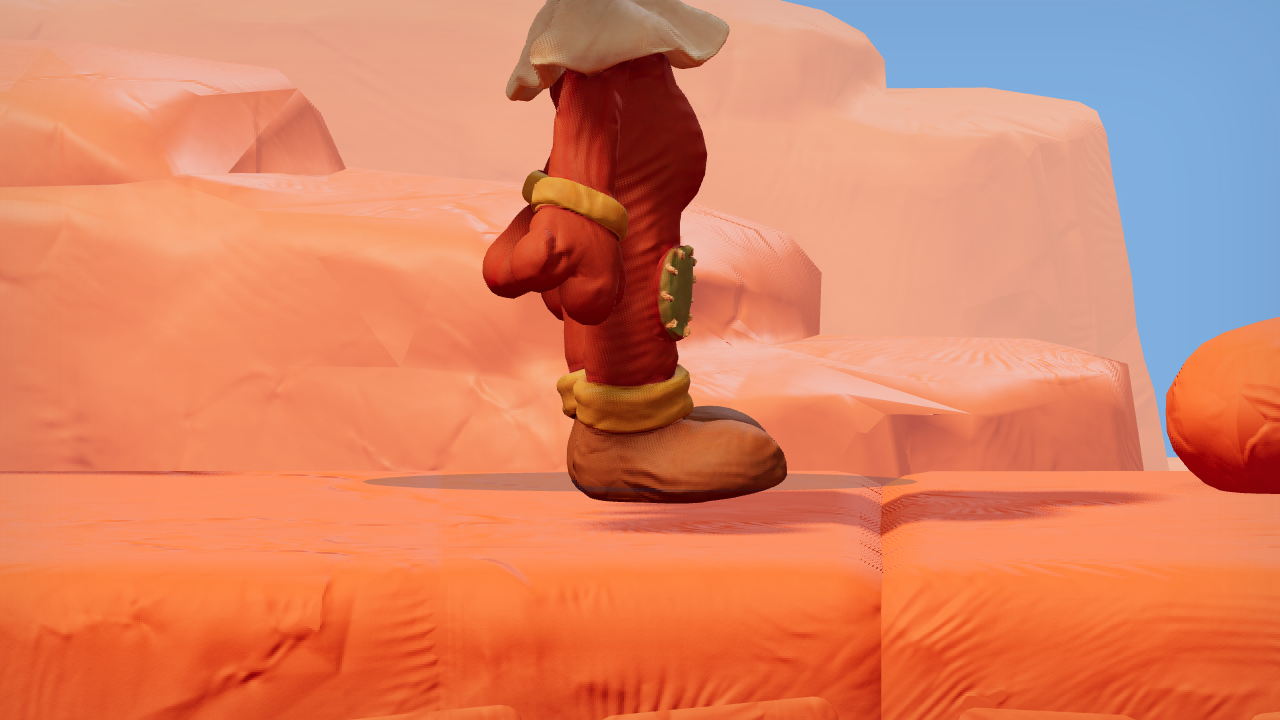
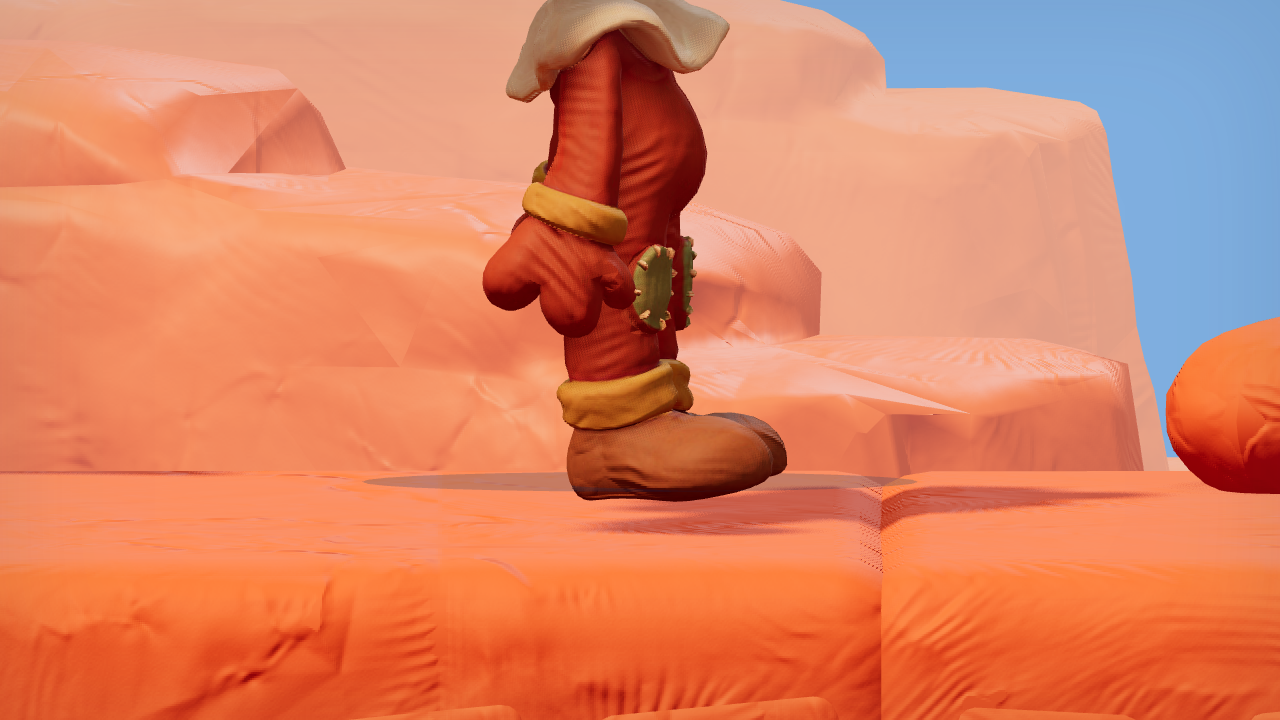
Mirror the apprentice so its face shows facing right
The game is played facing right, and the apprentice's hair is swept to the
side that then faces the camera — the profile players see most was a curtain
of hair with the nose poking out. A character may now declare `mirror`, a
reflection of the normalized group across its own sagittal plane: the rig,
clips and reached-for joints come along and the renderer turns the winding
with the determinant. The flower celebration's arm solver went through the
parent's quaternion, which cannot carry a reflection; it now takes both
directions into the parent frame through its full inverse matrix, and the
character test asks each hand to land on the stem rather than only on the
other hand.

Changed region(s): [[0.375, 0.0, 0.9062, 0.7333]]

diff --git a/dist/flower-celebration.js b/dist/flower-celebration.js
@@ -49,11 +49,14 @@ export function createFlowerCelebration(c,w){
 // bone lengths. Both actual hands converge on the same short flower stem.
 function reach(chain,target,weight){
   const joints=chain.slice(0,3),hand=chain[3],saved=joints.map(b=>b.quaternion.clone());
-  const origin=new THREE.Vector3(),tip=new THREE.Vector3(),goal=new THREE.Vector3(),parent=new THREE.Quaternion(),rotation=new THREE.Quaternion();
+  const origin=new THREE.Vector3(),tip=new THREE.Vector3(),goal=new THREE.Vector3(),parent=new THREE.Matrix4(),rotation=new THREE.Quaternion();
   for(let pass=0;pass<12;pass++)for(let i=2;i>=0;i--){
-    const bone=joints[i];bone.getWorldPosition(origin);hand.getWorldPosition(tip);tip.sub(origin).normalize();goal.copy(target).sub(origin).normalize();
-    rotation.setFromUnitVectors(tip,goal);bone.parent.getWorldQuaternion(parent);
-    rotation.premultiply(parent.clone().invert()).multiply(parent);bone.quaternion.premultiply(rotation);bone.updateWorldMatrix(false,true);
+    const bone=joints[i];bone.getWorldPosition(origin);hand.getWorldPosition(tip);tip.sub(origin);goal.copy(target).sub(origin);
+    // Both directions are taken into the parent's own frame through its full
+    // inverse matrix — not its quaternion, which cannot carry the reflection of
+    // a mirrored character — and the swing is solved there, as the bone's own.
+    parent.copy(bone.parent.matrixWorld).invert();tip.transformDirection(parent);goal.transformDirection(parent);
+    rotation.setFromUnitVectors(tip,goal);bone.quaternion.premultiply(rotation);bone.updateWorldMatrix(false,true);
   }
   joints.forEach((bone,i)=>bone.quaternion.slerpQuaternions(saved[i],bone.quaternion.clone(),weight));
 }

diff --git a/dist/characters.js b/dist/characters.js
@@ -24,7 +24,10 @@
 // that relief is pressed. Unset, a character takes the shallow press every
 // imported model gets (.025); the terrain is pressed to .075. The apprentice's
 // paint is darker and busier than the others', which swallowed the shallow
-// press, so it asks for one nearer the ground it stands on.
+// press, so it asks for one nearer the ground it stands on. `mirror` turns a
+// character over across its own sagittal plane. The game is played facing
+// right, and the apprentice's hair is swept to the side that then faces the
+// camera, hiding its face; mirrored, the clear profile is the one on show.
 const STANDING=1.78;
 
 export const CHARACTERS=[
@@ -51,7 +54,7 @@ export const CHARACTERS=[
   {
     id:'apprentice',name:'Clay apprentice',note:'Terracotta and cream, capped.',
     model:'apprentice.glb',motion:'apprentice-motion.json',animation:'apprentice-animation.json',
-    height:STANDING*1.15,orangeSource:0,clayDepth:.06
+    height:STANDING*1.15,orangeSource:0,clayDepth:.06,mirror:true
   }
 ];
 

diff --git a/dist/hero.js b/dist/hero.js
@@ -114,7 +114,10 @@ export function attachHero(w,gltf,motion,animation,choice=CHARACTERS[0]){
   const rootScale=hips.parent.getWorldScale(new THREE.Vector3()).y;
   const standing=choice.height||MODEL_HEIGHT;c.build=standing/MODEL_HEIGHT;
   const scale=standing/height,model=new THREE.Group();model.name='Normalized custom character';
-  model.scale.setScalar(scale);model.position.set(0,-bounds.min.y*scale,-motion.anchor[2]*rootScale*scale);
+  // A character that reads better from its other side is mirrored across its
+  // own sagittal plane: the rig, its clips and the joints the game reaches for
+  // all come along, and the renderer turns the winding with the determinant.
+  model.scale.set(choice.mirror?-scale:scale,scale,scale);model.position.set(0,-bounds.min.y*scale,-motion.anchor[2]*rootScale*scale);
   model.add(gltf.scene);c.facing.add(model);c.model=model;c.asset=gltf.scene;c.hips=hips;c.choice=choice;
   const maxAnisotropy=Math.min(4,w.renderer?.capabilities.getMaxAnisotropy()||4);
   gltf.scene.traverse(o=>{

diff --git a/README.md b/README.md
@@ -217,7 +217,7 @@ The model is uniformly scaled to 1.78 world units, faces the travel direction an
 
 Settings holds a hidden cast: the original, the Emberleaf wanderer, the Clay wanderer, the Garden helper and the Clay apprentice. The picker stays out of sight until `ß` is typed with the settings panel open, and once found it stays unlocked on that device. The choice applies immediately — the rig is released and the next one attached on the same group the game already drives, so the title scene or a chapter in progress keeps its position, camera and level. Only the chosen character is downloaded; the others cost nothing until they are picked.
 
-Every character is interchangeable rather than merely loadable. Each carries the same nine states under the same names over the same foot-centred origin, with its own offline-sampled sole corrections, so chapters play identically whoever is worn. Each declares its own standing height — the original 1.78 world units, the three wanderers half again as tall, the apprentice fifteen per cent above the original — and the shadow, the flower reach and the daze motes that circle the head all scale with it. Their rigs answer to one vocabulary of joint names, which is what lets the animation states and the two-handed flower celebration address any of them. Only the original is pulled toward the game's orange by the clay shader; the supplied characters were painted in clay colours already and keep their skin exactly as it was made, taking just the clay surface relief. A character may also say how deep that relief is pressed (`clayDepth`): imported models take a shallow press by default, and the apprentice's darker, busier paint swallowed it, so it asks for one nearer the terrain's — `node scripts/review-apprentice.cjs` captures it on canyon clay at a sweep of depths, close up and at play distance, into `docs/apprentice-clay/`.
+Every character is interchangeable rather than merely loadable. Each carries the same nine states under the same names over the same foot-centred origin, with its own offline-sampled sole corrections, so chapters play identically whoever is worn. Each declares its own standing height — the original 1.78 world units, the three wanderers half again as tall, the apprentice fifteen per cent above the original — and the shadow, the flower reach and the daze motes that circle the head all scale with it. Their rigs answer to one vocabulary of joint names, which is what lets the animation states and the two-handed flower celebration address any of them. Only the original is pulled toward the game's orange by the clay shader; the supplied characters were painted in clay colours already and keep their skin exactly as it was made, taking just the clay surface relief. A character may be turned over across its own sagittal plane (`mirror`): the game is played facing right, and the apprentice's hair is swept to the side that then faces the camera and hides its face, so it is mirrored and the clear profile is the one on show — the rig, its clips and the joints the flower celebration reaches for come along, and that celebration solves its arms through each joint's full parent transform so a reflection cannot send the hands astray. A character may also say how deep that relief is pressed (`clayDepth`): imported models take a shallow press by default, and the apprentice's darker, busier paint swallowed it, so it asks for one nearer the terrain's — `node scripts/review-apprentice.cjs` captures it on canyon clay at a sweep of depths, close up and at play distance, into `docs/apprentice-clay/`.
 
 The supplied files arrive with at most a single `Running` cycle. `python scripts/prepare-textures.py SOURCE_GLB dist/assets/NAME.glb` repacks their textures to the mobile budget, then `node scripts/prepare-character.mjs NAME` retargets the original character's whole clip set onto the new skeleton and bakes its floor corrections. The original rig rests in an A-pose and the supplied rigs in a T-pose, so what crosses over is each joint's absolute world orientation rather than its rotation away from its own rest — the only constant kept is the roll between the two bone frames once their rest limbs are swung into line. The ankle is the exception: both rigs rest with their soles flat on the floor, and the line from ankle to toe describes the shape of a shoe rather than the direction of a limb, so the foot is neither aimed nor swung along with its shin — it carries only the original's rotation away from rest, and a boot modelled flat stays flat. (Inheriting the shin's swing, as the hands inherit the forearm's, had stood every supplied character a few degrees back on its heels, the apprentice twelve; `node scripts/review-cast.cjs` captures each character standing on canyon clay facing both ways, with a close frame on the boots, into `docs/cast-stance/`.) The supplied geometry, skinning and textures are untouched, and the result is written beside the model as `NAME-animation.json` and `NAME-motion.json`.
 
